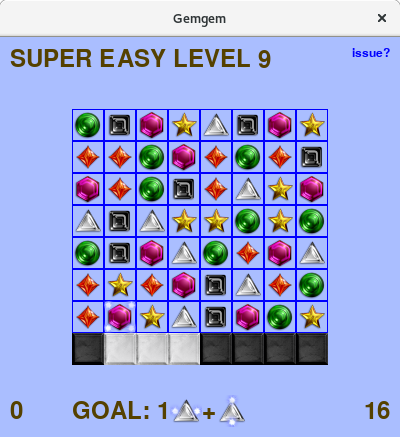
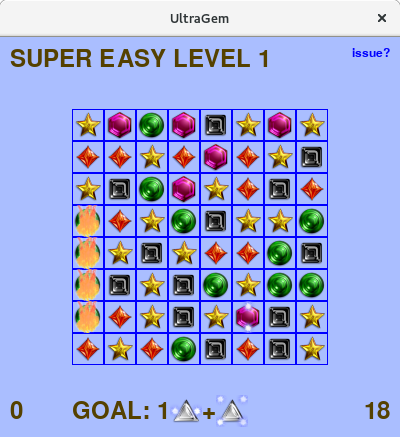
updated screenshot and url

diff --git a/ultragem.py b/ultragem.py
@@ -100,7 +100,7 @@ class UltraGemGame(object):
 		self.SMALLFONT = pygame.font.Font('freesansbold.ttf', 12)
 		self.FPSCLOCK = pygame.time.Clock()
 		self.WINDOWSURF = pygame.display.set_mode((WINDOWWIDTH, WINDOWHEIGHT))
-		pygame.display.set_caption('Gemgem')
+		pygame.display.set_caption('UltraGem')
 		self.WINDOWSURF.fill(BGCOLOR)
 		txt = self.BASICFONT.render('Loading ...', 1, GAMEOVERCOLOR, GAMEOVERBGCOLOR)
 		rect = txt.get_rect()
@@ -763,7 +763,7 @@ My issue/suggestion/question/ is ...
 
 """ % (str(self.board), self.ncolors, self.maxswaps, self.goalvalue, self.goalid)
 				title = 'Level %d' % self.gameid
-				webbrowser.open("https://github.com/JohannesBuchner/gemgem/issues/new?%s" % (urllib.parse.urlencode(dict(body=body, title=title))))
+				webbrowser.open("https://github.com/JohannesBuchner/ultragem/issues/new?%s" % (urllib.parse.urlencode(dict(body=body, title=title))))
 			#except Exception:
 			#	pass
 	
